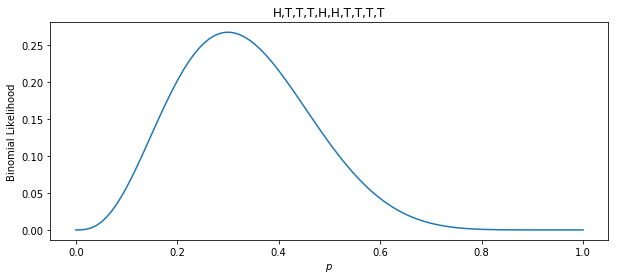
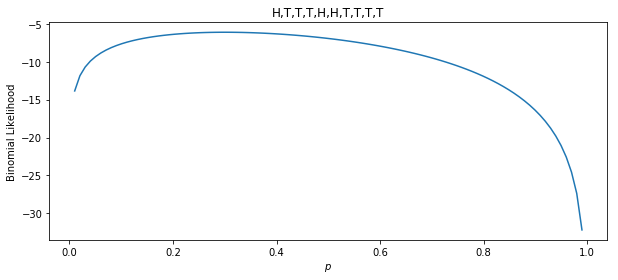
Fix images of coin likelihood functions.

diff --git a/README.md b/README.md
@@ -37,7 +37,7 @@ Since we're doing coin flips, the probabilities in question are:
 2\. Write a function `coin_log_likelihood` that returns the *logarithm* of the likelihood of `p` given a sequence of coin flips.
 
 ```python
-def coin_log_likelihood(p: float, flips: np.array) -> float:
+def coin_log_likelihood(p, flips):
     """Return the log-likelihood of a parameter p given a sequence of coin flips.
     """
 ```
@@ -60,12 +60,14 @@ Use your function to compute the *log-likelihood* of each of these coins given t
 
 5\. Make a bar chart of these two probabilities.  Here's how the resulting chart should look.
 
+<p align=center>
+<img src="img/two-coin-likelihood.png" alt="Example of Two Coin Likelihood Function">
+</p>
+
 6\. Wrap your plotting code in a function so that you can continue to use it.
 
 ```python
-def plot_coin_likelihood(ax: matplotlib.axes.Axes, 
-                         ps: np.array,
-                         data: np.array) -> None:
+def plot_coin_likelihood(ax, ps, data):
 ```
 
 7\. Make a plot of the likelihood for each *truncated* sequence of flips.  That is:
@@ -102,8 +104,7 @@ Now let's generalize the above ideas to an *infinite* set of probabilities, i.e.
 10\. Write a function `plot_coin_likelihood_continuous` that is much like your previous `plot_coin_likelihood` function, but draws a **line** plot (i.e. the graph of a function) over the entire range of probabilities.  You won't need to pass in an array of probabilities to this one:
 
 ```python
-def plot_coin_likelihood_continuous(matplotlib.axes.Axes, 
-                                    data: np.array) -> None:
+def plot_coin_likelihood_continuous(ax, data):
 ```
 
 11\. Use your function to plot like likelihood function for the full sequence of flips.  You result should look something like this:
